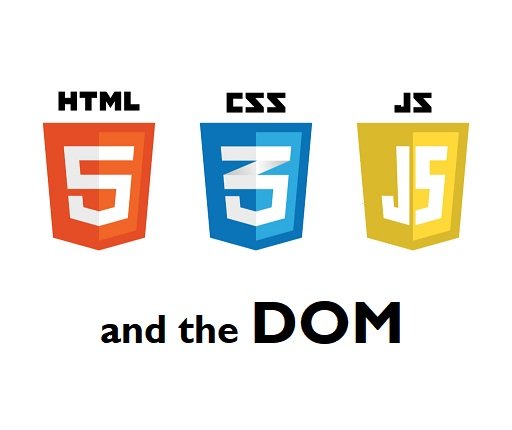
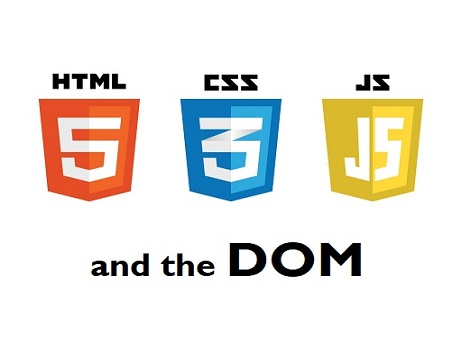
Add image in main page of technical.html and link  sprint3-technical.html

diff --git a/blog/technical-pages/technical.html b/blog/technical-pages/technical.html
@@ -22,6 +22,10 @@
                 <a href="sprint2-technical.html"><img src="technical-images/Kandinsky_classes_shapes.jpg"
                         alt="Kandinsky Geometric Art" class="center"></a>
             </div>
+            <div class="img-col1-display">
+                <p>Html, Css, Javascript & the DOM</p>
+                <a href="sprint3-technical.html"><img src="technical-images/javascript-html-css-dom.jpg" alt="Html,Css,Js logos" class="center"></a>
+            </div>
         </div>
     </div>
     <div id="footer">

diff --git a/blog/technical-pages/technical.css b/blog/technical-pages/technical.css
@@ -3,7 +3,6 @@ div.tech-content {
     width: 100%;
     position: absolute;
     top: 15%;
-    left: 10%;
 }
 
 div.img-col1-display {
@@ -17,10 +16,7 @@ div.img-row1-display {
 
 img.center {
     margin-top: 20px;
-    display: inline-block;
-    margin-left: auto;
-    margin-right: auto;
-    vertical-align: middle;
+    border: double black;
 }
 
 .img-col1-display p {
